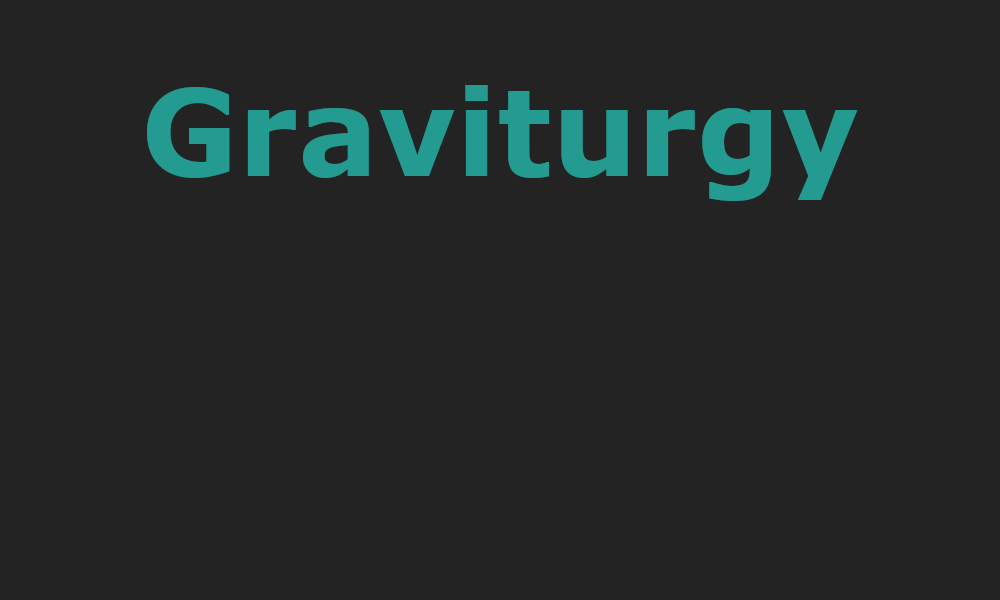
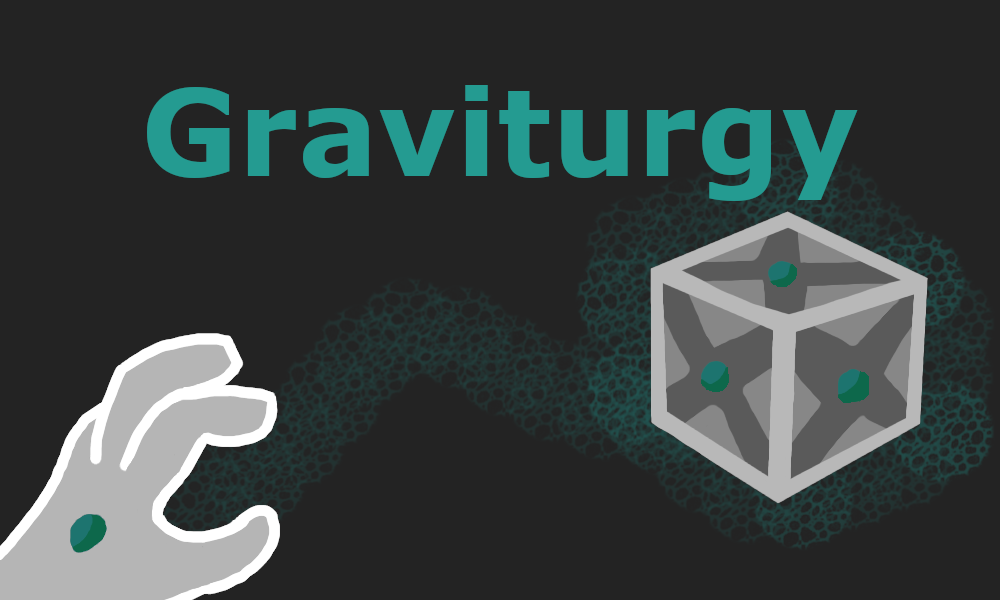
Added end screen and fixed jump sound overlapping

Changed region(s): [[0.589, 0.27, 0.992, 0.9], [0.0, 0.54, 0.279, 1.0]]

diff --git a/235/project3/js/main.js b/235/project3/js/main.js
@@ -20,7 +20,8 @@ add([
     "images/WASD.png",
     "images/arrows.png",
     "images/mouse.png",
-    "images/exit.png"
+    "images/exit.png",
+    "images/endcard.png"
 ]);
 app.loader.onProgress.add(e => { console.log(`progress=${e.progress}`) });
 app.loader.onComplete.add(setup);
@@ -29,7 +30,7 @@ app.loader.load();
 const playerPrefab = { width: 20, height: 30, mass: 1, maxSpeed: 1, color: 0x00FFBF };
 const cratePrefab = { width: 40, height: 40, mass: 0.5, maxSpeed: 500, color: 0x4F4F4F };
 
-let titleScene;
+let titleScene, endScene;
 
 let idleTextures, walkTextures, jumpTextures;
 
@@ -151,6 +152,13 @@ function startNextLevel()
     
     currentLevel = currentLevel.loadingZone.nextLevel;
 
+    if (currentLevel == "end")
+    {
+        endScene.visible = true;
+
+        return;
+    }
+
     currentLevel.restart();
 
     currentLevel.player.isMoveLeft = oldPlayer.isMoveLeft;
@@ -165,6 +173,8 @@ function startNextLevel()
 function startGame()
 {
     titleScene.visible = false;
+    currentLevel = levels[0];
+    currentLevel.restart();
     currentLevel.scene.visible = true;
     paused = false;
 }
@@ -191,9 +201,9 @@ function createLevels()
     ({
         fill: 0x249b91,
         fontSize: 60,
-        fontFamily: "Sans-Serif"
+        fontFamily: "Helvetica"
     });
-    startButton.x = 325;
+    startButton.x = 315;
     startButton.y = sceneHeight - 100;
     startButton.interactive = true;
     startButton.buttonMode = true;
@@ -201,6 +211,36 @@ function createLevels()
     startButton.on("pointerover", e => e.target.alpha = 0.7);
     startButton.on("pointerout", e => e.currentTarget.alpha = 1.0);
     titleScene.addChild(startButton);
+
+
+    // ------ END SCREEN ------
+    endScene = new PIXI.Container();
+    endScene.visible = false;
+    stage.addChild(endScene);
+
+    let endImage = new PIXI.Sprite(app.loader.resources["images/endcard.png"].texture);
+    endScene.addChild(endImage);
+
+    let endButton = new PIXI.Text("Back to menu");
+    endButton.style = new PIXI.TextStyle
+    ({
+        fill: 0x249b91,
+        fontSize: 60,
+        fontFamily: "Helvetica"
+    });
+    endButton.x = 50;
+    endButton.y = sceneHeight - 100;
+    endButton.interactive = true;
+    endButton.buttonMode = true;
+    endButton.on("pointerup", e => 
+    {
+        endScene.visible = false;
+        titleScene.visible = true;
+    });
+    endButton.on("pointerover", e => e.target.alpha = 0.7);
+    endButton.on("pointerout", e => e.currentTarget.alpha = 1.0);
+    endScene.addChild(endButton);
+
 
     // ------ LEVEL 0 - CORRIDOR ------
     let corridorScene = new PIXI.Container();
@@ -487,7 +527,7 @@ function createLevels()
         }
         else
         {
-            levels[i].loadingZone.nextLevel = levels[0];
+            levels[i].loadingZone.nextLevel = "end";
         }
     }
 
@@ -510,6 +550,8 @@ function createPlayerGate(position = new Vector(), width, height)
 
 function playerInputStart(e)
 {
+    if (paused){return;}
+
     switch (e.code)
     {
         case "KeyA":
@@ -533,6 +575,8 @@ function playerInputStart(e)
 
 function playerInputEnd(e)
 {
+    if (paused) {return;}
+
     switch (e.code)
     {
         case "KeyA":

diff --git a/235/project3/js/classes.js b/235/project3/js/classes.js
@@ -147,6 +147,15 @@ class Crate extends PIXI.Sprite
 
     draw()
     {
+        if (this.grabbed)
+        {
+            this.tint = 0x0000FF;
+        }
+        else
+        {
+            this.tint = 0xFFFFFF;
+        }
+
         this.x = this.kinematic.position.x;
         this.y = this.kinematic.position.y;
     }
@@ -183,7 +192,7 @@ class Crate extends PIXI.Sprite
     }
 }
 
-class Player extends PIXI.Graphics
+class Player extends PIXI.Container
 {
     constructor(position = Vector(), width = 0, height = 0, mass = 1, maxSpeed = 1, color = 0x00FFBF)
     {
@@ -424,7 +433,10 @@ class Player extends PIXI.Graphics
             this.kinematic.velocity.y = -400;
             //console.log("JUMP!");
 
-            jumpSound.play();
+            if (!jumpSound.playing())
+            {
+                jumpSound.play();
+            }
         }
     }
 
